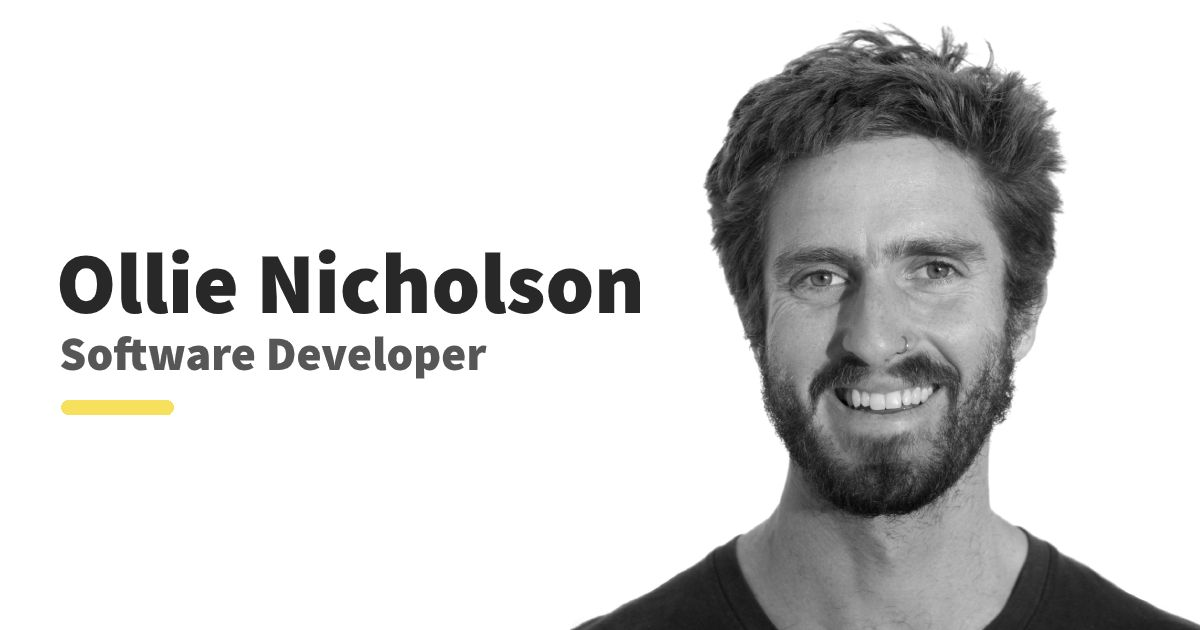
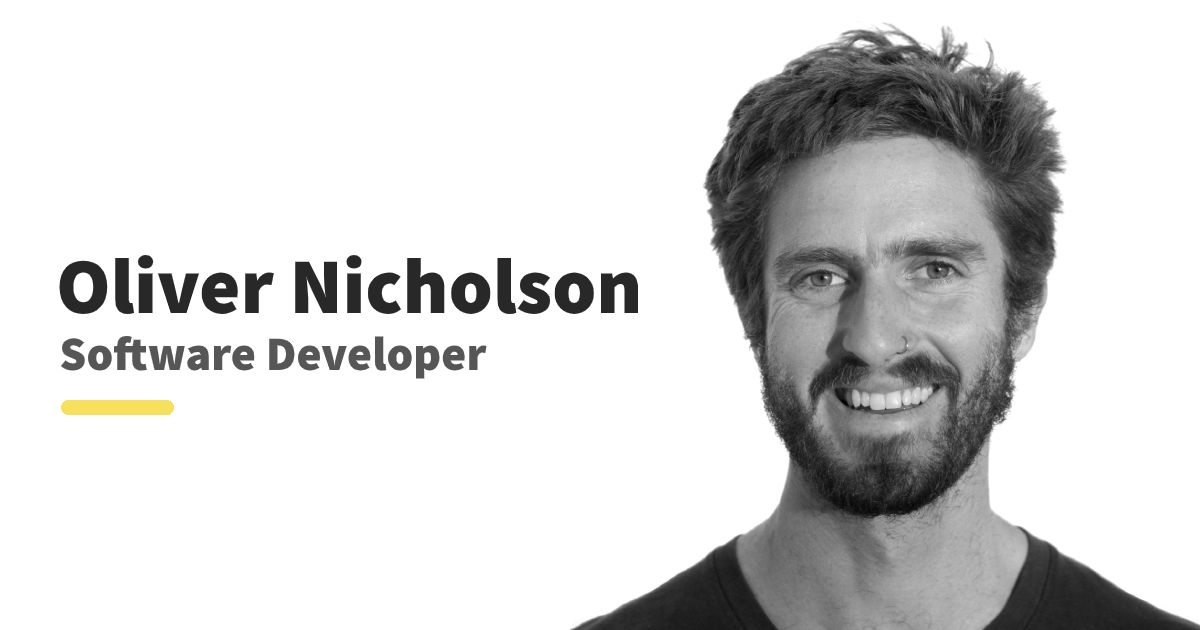
Ollie-> Oliver

Changed region(s): [[0.0617, 0.3921, 0.555, 0.5127]]

diff --git a/site.config.js b/site.config.js
@@ -1,8 +1,8 @@
 module.exports = {
-  title: 'Ollie Nicholson',
-  description: 'My name is Ollie. I’m a React & React Native developer with backend skills. My passion is creating clean, efficient apps that look pixel perfect on all devices.',
-  author: 'Ollie Nicholson',
-  url: 'https://ollie.nicho.tech',
+  title: 'Oliver Nicholson',
+  description: 'My name is Oliver. I’m a React & React Native developer with backend skills. My passion is creating clean, efficient apps that look pixel perfect on all devices.',
+  author: 'Oliver Nicholson',
+  url: 'https://oliver.nicho.tech',
   locale: 'en',
   fonts: [
     'https://fonts.googleapis.com/css2?family=Biryani&display=swap',

diff --git a/components/Hello/Subheading.tsx b/components/Hello/Subheading.tsx
@@ -14,7 +14,7 @@ const Subheading: React.FC<SubheadingProps> = ({}) => {
       className="text-xl sm:text-2xl font-extrabold"
     >
       <div className="pb-8 sm:pb-2">
-        My name is Ollie. I’m a <strong>React & React Native developer</strong>{' '}
+        My name is Oliver. I’m a <strong>React & React Native developer</strong>{' '}
         with <strong>backend skills.</strong>
       </div>
       <div>

diff --git a/components/About/Subheading.tsx b/components/About/Subheading.tsx
@@ -14,7 +14,7 @@ const Subheading: React.FC<SubheadingProps> = ({}) => {
       className="leading-loose"
     >
       <div className="pb-2">
-        My name is Ollie. I’m a <strong>React & React Native developer</strong>{' '}
+        My name is Oliver. I’m a <strong>React & React Native developer</strong>{' '}
         with <strong>backend skills.</strong>
       </div>
       <div>

diff --git a/components/Layout/Head.tsx b/components/Layout/Head.tsx
@@ -52,7 +52,7 @@ const Head: React.FC<HeadProps> = ({ title }) => {
               url: `${config.url}/og-image.jpg`,
               width: 1200,
               height: 630,
-              alt: 'Ollie Nicholson',
+              alt: 'Oliver Nicholson',
             },
           ],
         }}

diff --git a/components/Hello/Face.tsx b/components/Hello/Face.tsx
@@ -25,7 +25,7 @@ const Face: React.FC<FaceProps> = () => {
       <Image
         className="pointer-events-none"
         src="/ollie-large.png"
-        alt="Ollie"
+        alt="Oliver"
         layout="fill"
         priority
       />

diff --git a/README.md b/README.md
@@ -1,4 +1,4 @@
-# Ollie's Freelancing Portfolio Site
+# Ollie's Portfolio Site
 
 Welcome!!
 
